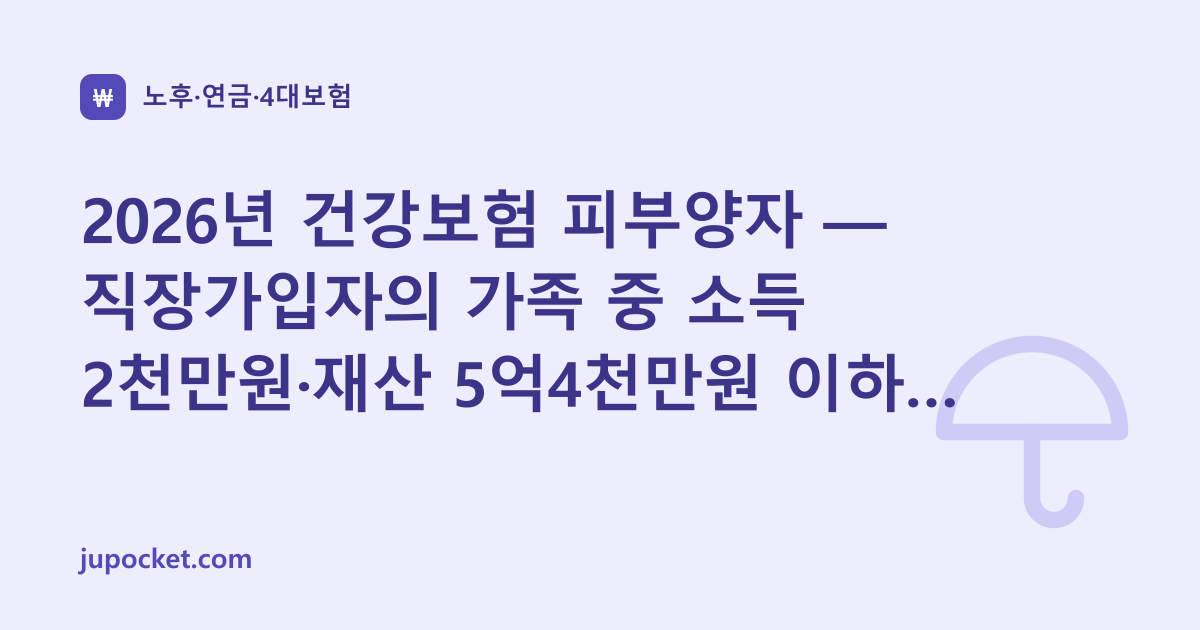
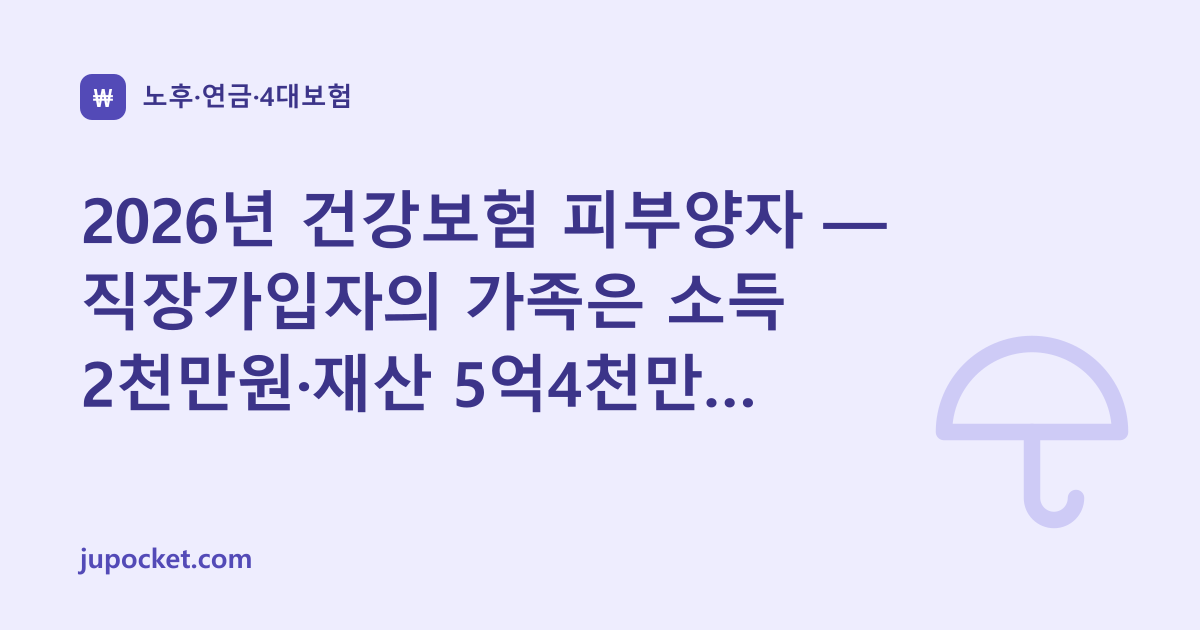
fix: 코인 계산기 코인별 시가 비교, 유예 세 번 근거, 피부양자 소득 산정 방법
- 코인 세금 계산기: 2027년 전 보유분(실제 취득가 vs 2026말 시가)과 이후 매수분을 나눠 입력 — 합계끼리 max 잡던 오류 수정,
  코인별 비교가 법(제37조 ⑤)이라는 안내
- 가상자산 과세 유예: 세 번 모두 시행 연기였음을 법률 제18578호·제19196호·제20615호 개정이유로 확인해 경과를 적었다
- 피부양자: 소득 2천만원 산정(근로 총급여·연금 전액·사업·기타 소득금액·금융 1천만원 이하 제외)을 시행규칙 제44조 ①로,
  허브 제목 '…이하면 됩니다' → '…이하여야'

Changed region(s): [[0.4933, 0.4222, 0.6783, 0.5429], [0.5858, 0.5429, 0.8017, 0.6635]]

diff --git a/src/lib/crypto-tax.ts b/src/lib/crypto-tax.ts
@@ -1,6 +1,9 @@
 /**
- * 가상자산(코인) 과세 — 소득세법 제21조 제1항 제27호, 제37조 제1항 제3호·제5항, 제64조의3 제2항(250만원 공제·20%),
+ * 가상자산(코인) 과세 — 소득세법 제21조 제1항 제27호·제3항, 제37조 제1항 제3호·제5항, 제64조의3 제2항(250만원 공제·20%),
  * 제84조 제3호, 지방세법 제93조 제18항(2%). 2027. 1. 1. 이후 양도·대여분부터. rates: crypto-2026.json
+ *
+ * 제37조 제5항의 비교(2026. 12. 31. 시가 vs 실제 취득가액)는 가상자산마다 따로 한다. 여러 코인을 합계로 넣으면
+ * 합계끼리 큰 쪽을 잡게 되어 코인별로 비교한 것보다 취득가액이 작거나 같다 — 세금이 실제보다 크게 나올 수 있다.
  */
 import r from "../rates/crypto-2026.json";
 
@@ -9,16 +12,18 @@ const fl = (v: number) => Math.floor(v + 1e-6);
 export interface CryptoInput {
   /** 한 해 양도가액 합계 */
   proceeds: number;
-  /** 실제 취득가액 합계 */
-  cost: number;
-  /** 2027. 1. 1. 전 보유분의 2026. 12. 31. 시가 합계(해당 없으면 0) */
-  fairValue2026?: number;
+  /** 2027. 1. 1. 이후 산 코인의 취득가액 */
+  cost?: number;
+  /** 2027. 1. 1. 전부터 보유한 코인의 실제 취득가액 */
+  preCost?: number;
+  /** 2027. 1. 1. 전부터 보유한 코인의 2026. 12. 31. 시가 */
+  preFairValue?: number;
   /** 거래 수수료 등 부대비용 */
   fees?: number;
 }
 
 export function cryptoTax(o: CryptoInput) {
-  const basis = Math.max(o.cost, o.fairValue2026 ?? 0);
+  const basis = (o.cost ?? 0) + Math.max(o.preCost ?? 0, o.preFairValue ?? 0);
   const income = o.proceeds - basis - (o.fees ?? 0);
   const taxable = Math.max(0, income - r.deduction);
   const tax = income <= r.deduction ? 0 : fl(taxable * r.rate);

diff --git a/src/data/clusters.ts b/src/data/clusters.ts
@@ -259,7 +259,7 @@ export const clusters: Cluster[] = [
       { href: "/guide/basic-pension-criteria/", title: "기초연금 기준 — 소득인정액이 혼자 월 247만원, 부부 월 395만2천원 이하여야 합니다", kind: "guide", icon: "umbrella", year: 2026 },
       { href: "/guide/basic-pension-calculator/", title: "기초연금 모의계산", kind: "calc", icon: "calculator", blurb: "소득·재산 → 소득인정액과 2026년 기초연금 어림" },
       { href: "/guide/basic-pension-apply/", title: "기초연금 신청 — 시장·군수·구청장에게 신청한 달부터 받으니 65세가 되면 바로 하세요", kind: "guide", icon: "umbrella", year: 2026 },
-      { href: "/guide/health-dependent/", title: "건강보험 피부양자 — 직장가입자의 가족 중 소득 2천만원·재산 5억4천만원 이하면 보험료 없이 됩니다", kind: "guide", icon: "umbrella", year: 2026 },
+      { href: "/guide/health-dependent/", title: "건강보험 피부양자 — 직장가입자의 가족은 소득 2천만원·재산 5억4천만원 이하여야 보험료 없이 됩니다", kind: "guide", icon: "umbrella", year: 2026 },
       { href: "/guide/health-dependent-criteria/", title: "건강보험 피부양자 조건 — 소득 연 2천만원 이하, 사업소득 없음, 재산 과세표준 5억4천만원 이하", kind: "guide", icon: "umbrella", year: 2026 },
       { href: "/guide/health-dependent-registration/", title: "건강보험 피부양자 등록 — 직장가입자가 신고서를 내고, 90일 안에 하면 입사일로 소급됩니다", kind: "guide", icon: "umbrella", year: 2026 },
     ],

diff --git a/src/scripts/crypto-tax.ts b/src/scripts/crypto-tax.ts
@@ -8,11 +8,11 @@ import { trackCalculatorUse } from "../lib/track";
 
 const reportUse = trackCalculatorUse("crypto-tax");
 const $ = <T extends HTMLElement>(id: string) => document.getElementById(id) as T;
-const fields = ["ct-proceeds", "ct-cost", "ct-fv", "ct-fees"].map((id) => $<HTMLInputElement>(id));
-const [proceeds, cost, fv, fees] = fields;
+const fields = ["ct-proceeds", "ct-cost", "ct-pre", "ct-fv", "ct-fees"].map((id) => $<HTMLInputElement>(id));
+const [proceeds, cost, pre, fv, fees] = fields;
 
 function render() {
-  const x = cryptoTax({ proceeds: parseAmount(proceeds.value), cost: parseAmount(cost.value), fairValue2026: parseAmount(fv.value), fees: parseAmount(fees.value) });
+  const x = cryptoTax({ proceeds: parseAmount(proceeds.value), cost: parseAmount(cost.value), preCost: parseAmount(pre.value), preFairValue: parseAmount(fv.value), fees: parseAmount(fees.value) });
   $("ct-hero").textContent = formatWon(x.total);
   $("ct-income").textContent = formatWon(x.income);
   $("ct-tax").textContent = formatWon(x.tax);

diff --git a/src/lib/__tests__/crypto-series.test.ts b/src/lib/__tests__/crypto-series.test.ts
@@ -14,8 +14,11 @@ describe("코인 세금 계산", () => {
     expect(cryptoTax({ proceeds: 20_000_000, cost: 10_000_000 }).total).toBe(1_650_000);
   });
   it("2026년 말 시가가 크면 그걸로 — 1,045만원 → 385만원", () => {
-    expect(cryptoTax({ proceeds: 60_000_000, cost: 10_000_000 }).total).toBe(10_450_000);
-    expect(cryptoTax({ proceeds: 60_000_000, cost: 10_000_000, fairValue2026: 40_000_000 }).total).toBe(3_850_000);
+    expect(cryptoTax({ proceeds: 60_000_000, preCost: 10_000_000 }).total).toBe(10_450_000);
+    expect(cryptoTax({ proceeds: 60_000_000, preCost: 10_000_000, preFairValue: 40_000_000 }).total).toBe(3_850_000);
+  });
+  it("시가 비교는 2027년 전 보유분에만 — 이후 매수분은 그대로 더한다", () => {
+    expect(cryptoTax({ proceeds: 100_000_000, cost: 30_000_000, preCost: 10_000_000, preFairValue: 40_000_000 }).basis).toBe(70_000_000);
   });
   it("시행 2027-01-01, 개정 세 번", () => {
     expect(r.start).toBe("2027-01-01");

diff --git a/src/lib/health-dependent.ts b/src/lib/health-dependent.ts
@@ -7,7 +7,7 @@ const I = r.income;
 const P = r.property;
 
 export interface DependentInput {
-  /** 이자·배당·사업·근로·연금·기타소득 합계(연, 비과세 제외, 공적연금 전액) */
+  /** 연 소득 합계 — 근로는 총급여, 연금은 총연금액(공적연금 전액), 사업·기타는 소득금액, 이자·배당은 합계 1천만원 이하면 빼고(시행규칙 제44조 제1항), 비과세 제외 */
   income: number;
   /** 사업소득(연) */
   business?: number;
